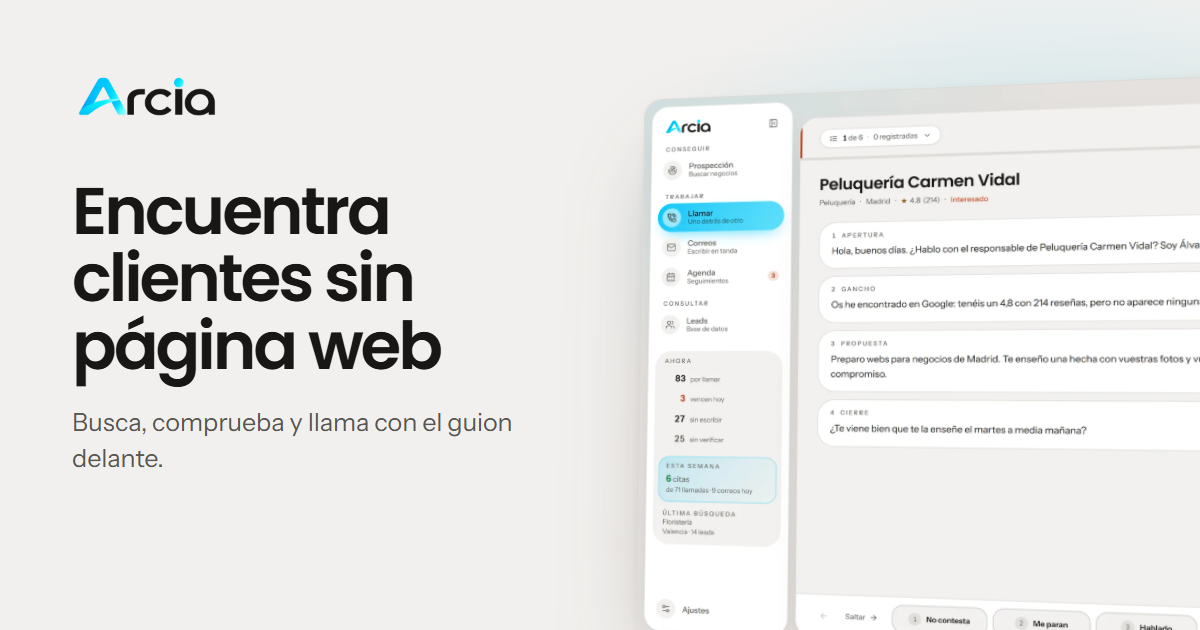
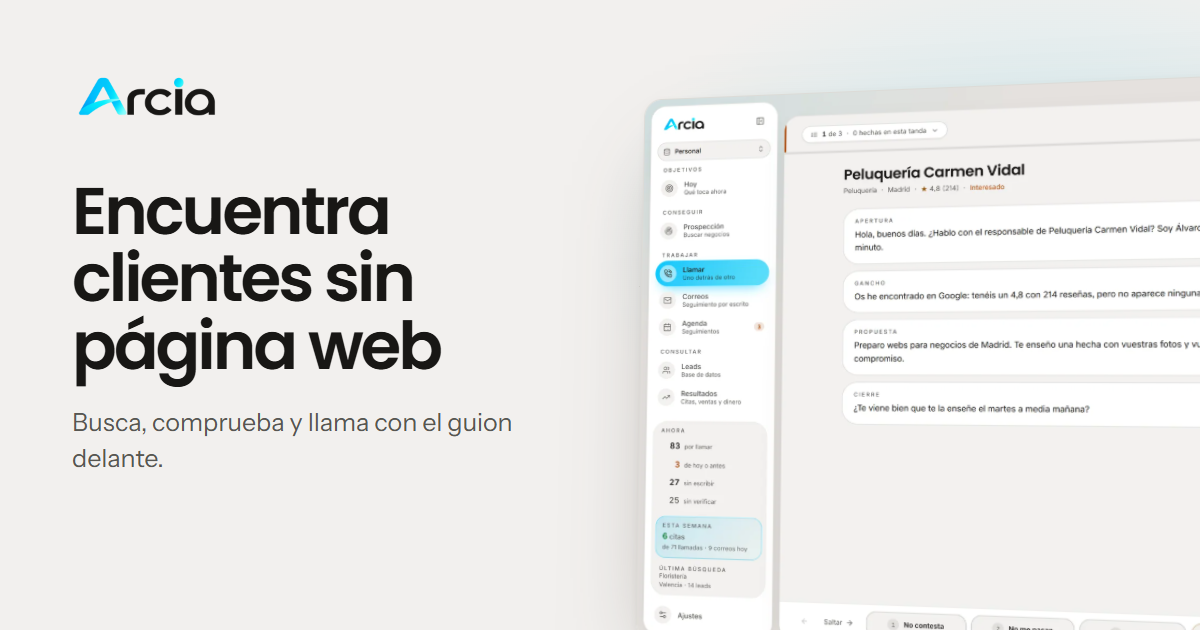
Cómo funciona en PC: pasos plegados y la pantalla más grande
- Los textos de los pasos no se plegaban (a un elemento de rejilla le faltaba
  min-height: 0), así que con cinco pasos la lista no cabía y «Sigue» quedaba
  fuera mientras estaba activo. Ahora solo el activo enseña su texto.
- Columna de texto estrecha y la pantalla hasta casi el borde derecho: casi
  el doble de grande.
- El instalador pesa unos 7 MB; og.png con la app de ahora.

diff --git a/como-funciona.html b/como-funciona.html
@@ -61,7 +61,7 @@
               <li class="paso">
                 <div class="paso-cuerpo">
                   <h3 class="paso-titulo"><i data-i="magnifying-glass"></i>Busca</h3>
-                  <p>Escribes un oficio y uno de los 8.132 municipios de España. Arcia lee las fichas de Google Maps y aparta las que ya declaran web, las vacías y las de otro pueblo.</p>
+                  <p><span>Escribes un oficio y uno de los 8.132 municipios de España. Arcia lee las fichas de Google Maps y aparta las que ya declaran web, las vacías y las de otro pueblo.</span></p>
                 </div>
                 <figure class="ventana paso-imagen">
                   <img data-captura="scan" data-tamanos="94vw" alt="Prospección: nueva búsqueda y escaneos recientes" loading="lazy">
@@ -70,7 +70,7 @@
               <li class="paso">
                 <div class="paso-cuerpo">
                   <h3 class="paso-titulo"><i data-i="shield-check"></i>Comprueba</h3>
-                  <p>Prueba las direcciones que saldrían del nombre de cada negocio y confirma que son suyas con su teléfono o su ciudad. Si la tiene, la abre: te dice si es mala o mejorable y qué le falla. Lo que no puede asegurar queda pendiente, y lo vuelve a mirar sola.</p>
+                  <p><span>Prueba las direcciones que saldrían del nombre de cada negocio y confirma que son suyas con su teléfono o su ciudad. Si la tiene, la abre: te dice si es mala o mejorable y qué le falla. Lo que no puede asegurar queda pendiente, y lo vuelve a mirar sola.</span></p>
                 </div>
                 <figure class="ventana paso-imagen">
                   <img data-captura="leads" data-tamanos="94vw" alt="Lista de leads con su valoración, teléfono, verificación y estado" loading="lazy">
@@ -79,7 +79,7 @@
               <li class="paso">
                 <div class="paso-cuerpo">
                   <h3 class="paso-titulo"><i data-i="phone-call"></i>Llama</h3>
-                  <p>El guion con los datos del negocio y su horario de hoy. Cada llamada se cierra con una tecla: no contesta, me paran, hablado, interesado, cita o rechaza.</p>
+                  <p><span>El guion con los datos del negocio y su horario de hoy. Cada llamada se cierra con una tecla: no contesta, me paran, hablado, interesado, cita o rechaza.</span></p>
                 </div>
                 <figure class="ventana paso-imagen">
                   <img data-captura="call" data-tamanos="94vw" alt="Modo llamada: el guion por fases, el teléfono con el horario y los seis resultados" loading="lazy">
@@ -88,7 +88,7 @@
               <li class="paso">
                 <div class="paso-cuerpo">
                   <h3 class="paso-titulo"><i data-i="envelope-simple"></i>Escribe</h3>
-                  <p>Arcia busca el correo de cada negocio en su web y en directorios. Lo mandas desde tu cuenta, en tandas con su tope diario, o dejas que el agente los escriba y tú los apruebas. Las respuestas se clasifican solas.</p>
+                  <p><span>Arcia busca el correo de cada negocio en su web y en directorios. Lo mandas desde tu cuenta, en tandas con su tope diario, o dejas que el agente los escriba y tú los apruebas. Las respuestas se clasifican solas.</span></p>
                 </div>
                 <figure class="ventana paso-imagen">
                   <img data-captura="email" data-tamanos="94vw" alt="Correos: los negocios por escribir, su correo, el último envío y en qué paso de la secuencia van" loading="lazy">
@@ -97,7 +97,7 @@
               <li class="paso">
                 <div class="paso-cuerpo">
                   <h3 class="paso-titulo"><i data-i="calendar-check"></i>Sigue</h3>
-                  <p>Los seguimientos, repartidos en vencidos, hoy y esta semana. La cita va a tu calendario con teléfono, dirección y notas.</p>
+                  <p><span>Los seguimientos, repartidos en vencidos, hoy y esta semana. La cita va a tu calendario con teléfono, dirección y notas.</span></p>
                 </div>
                 <figure class="ventana paso-imagen">
                   <img data-captura="agenda" data-tamanos="94vw" alt="Agenda con los seguimientos vencidos, los de hoy y los de esta semana" loading="lazy">
@@ -133,7 +133,7 @@
               <i data-i="windows-logo"></i>
               <div>
                 <h3>Windows 10 u 11</h3>
-                <p>De 64 bits. El instalador pesa unos 6 MB y la app se actualiza sola.</p>
+                <p>De 64 bits. El instalador pesa unos 7 MB y la app se actualiza sola.</p>
               </div>
             </li>
             <li class="aparece">

diff --git a/src/estilos.css b/src/estilos.css
@@ -1599,19 +1599,25 @@ button {
   align-items: center;
   padding-block: 96px 48px;
 }
+/* La pantalla, grande: es la app entera a 1600 px, y a la mitad de la página
+   no se leía nada (él, 2026-11-18). El texto se queda en una columna estrecha
+   y la pantalla crece hacia la derecha hasta casi el borde de la ventana. */
 .pasos.fijada .pasos-rejilla {
   display: grid;
-  grid-template-columns: minmax(0, 0.82fr) minmax(0, 1.18fr);
-  gap: clamp(40px, 5vw, 80px);
+  grid-template-columns: minmax(280px, 340px) minmax(0, 1fr);
+  gap: clamp(40px, 4vw, 64px);
   align-items: center;
 }
+.pasos.fijada .pasos-visor {
+  margin-right: calc(-1 * max(0px, (100vw - var(--ancho)) / 2 - 24px));
+}
 .pasos.fijada .pasos-lista {
-  gap: 6px;
-  margin-top: 32px;
+  gap: 2px;
+  margin-top: 28px;
 }
 .pasos.fijada .paso {
   position: relative;
-  padding: 16px 0 16px 24px;
+  padding: 12px 0 12px 24px;
   opacity: 0.45;
   transition: opacity 0.4s var(--curva);
 }
@@ -1620,8 +1626,8 @@ button {
   content: "";
   position: absolute;
   left: 0;
-  top: 16px;
-  bottom: 16px;
+  top: 12px;
+  bottom: 12px;
   width: 2px;
   border-radius: 2px;
 }
@@ -1646,7 +1652,14 @@ button {
     margin-top 0.45s var(--curva);
 }
 .pasos.fijada .paso.activo p {
+  grid-template-rows: 1fr;
   margin-top: 8px;
+}
+/* Sin esto el texto no se pliega nunca: un elemento de rejilla no baja de su
+   alto mínimo, y con los cinco pasos abiertos la lista no cabía en la
+   pantalla y el último quedaba fuera mientras estaba activo. */
+.pasos.fijada .paso p > span {
+  min-height: 0;
 }
 .pasos.fijada .paso-imagen {
   display: none;

diff --git a/index.html b/index.html
@@ -279,7 +279,7 @@
               <i data-i="windows-logo"></i>
               <span>Descargar para Windows</span>
             </a>
-            <p class="tarjeta-precio-nota">Windows 10 y 11, 64 bits. Unos 6 MB.</p>
+            <p class="tarjeta-precio-nota">Windows 10 y 11, 64 bits. Unos 7 MB.</p>
           </div>
         </div>
       </section>
